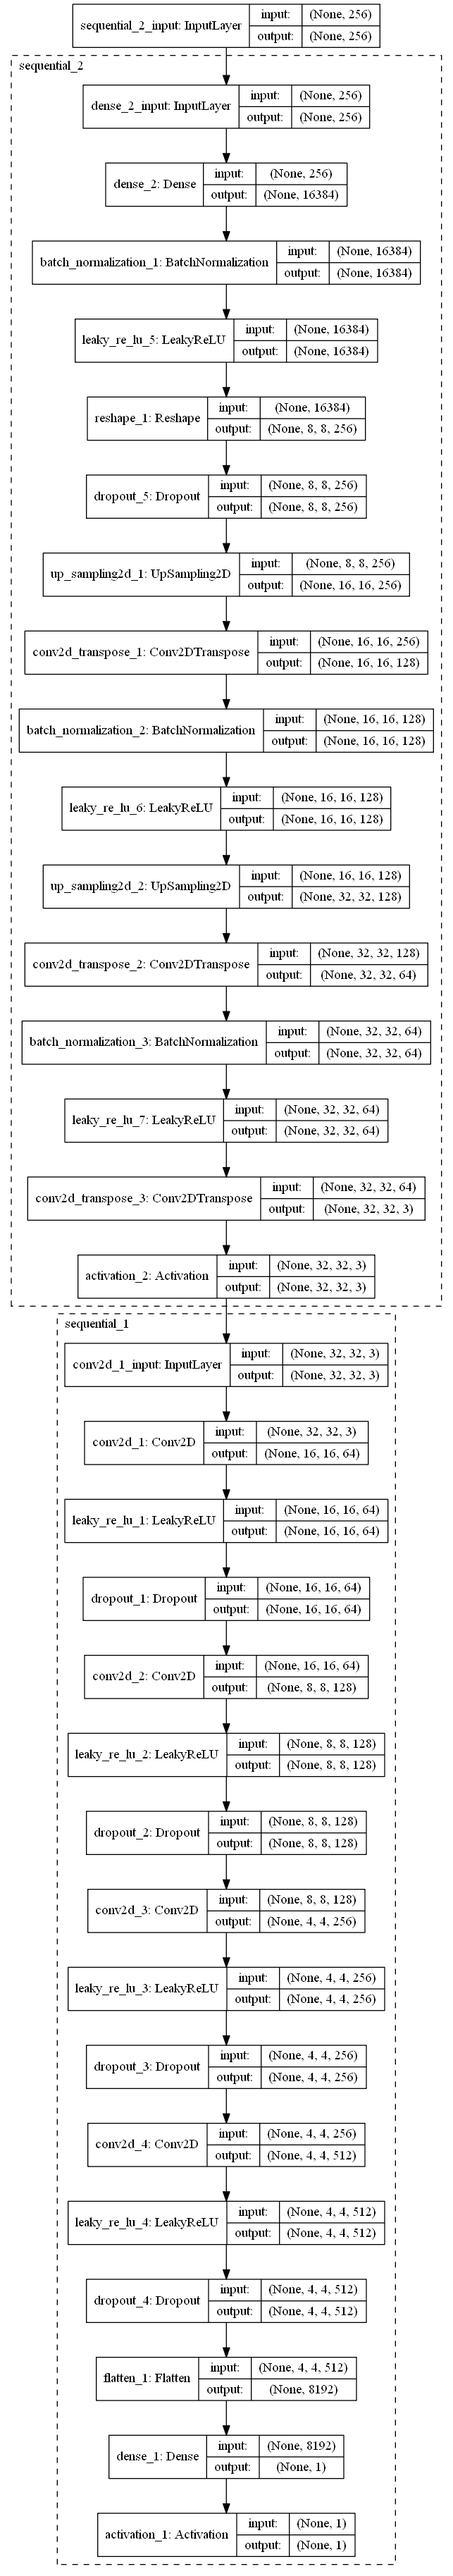
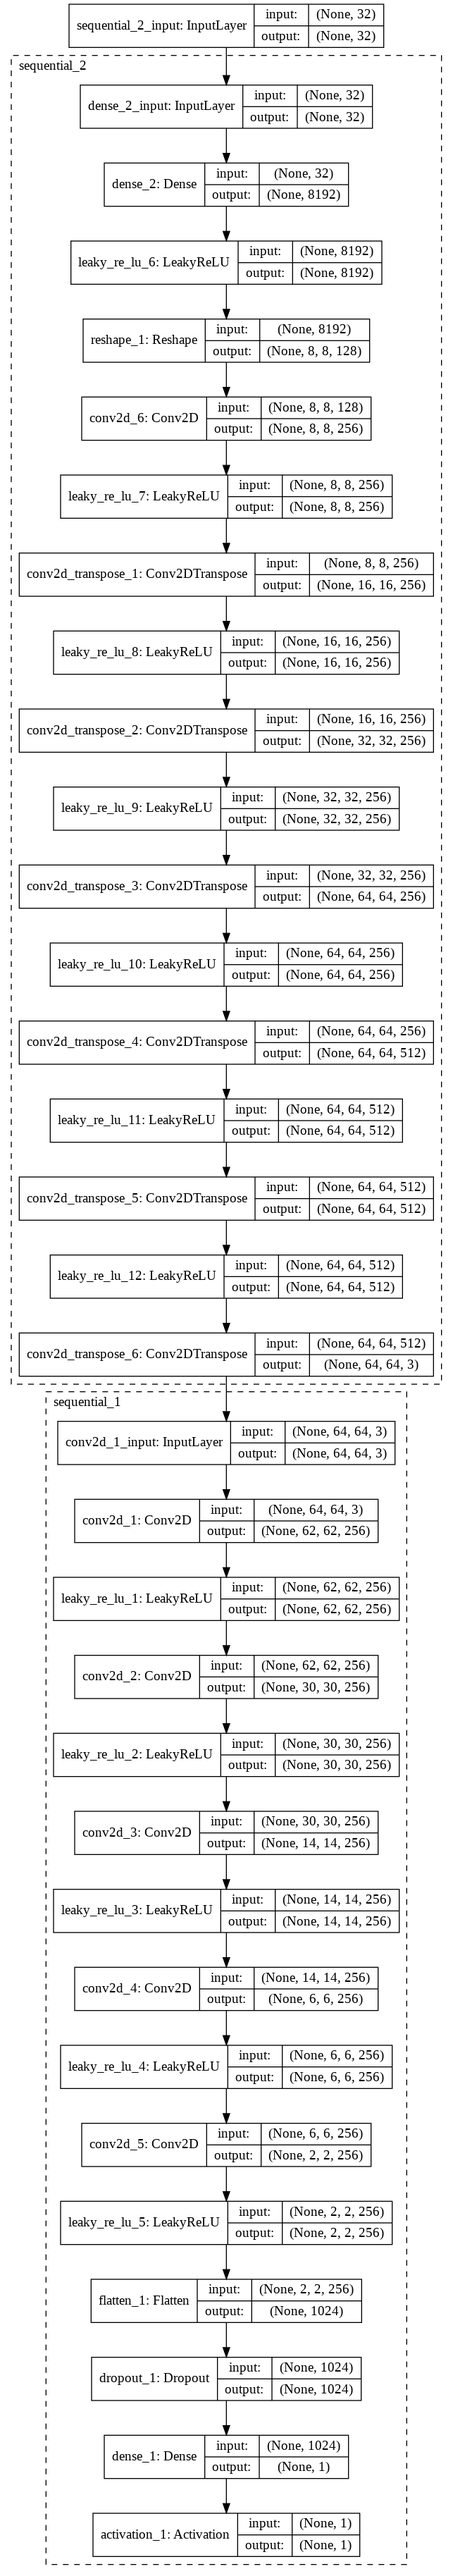
Re-run LSGAN with new model

diff --git a/LSGAN/main_100kCeleb.py b/LSGAN/main_100kCeleb.py
@@ -26,77 +26,90 @@ Redistribution and use in source and binary forms, with or without
 
 import os
 import numpy as np
+import pandas as pd
 import random
 import matplotlib.pyplot as plt
 from tqdm import tqdm
-from keras.layers import Dense, Activation, Dropout, Flatten, Reshape, LeakyReLU, ReLU
-from keras.layers import Conv2D, Conv2DTranspose, UpSampling2D, BatchNormalization, ZeroPadding2D
-from keras.models import Sequential, load_model
+from keras.layers import Dense, Activation, Dropout, Flatten, Reshape, LeakyReLU, AveragePooling2D, Embedding
+from keras.layers import Conv2D, Conv2DTranspose, UpSampling2D, BatchNormalization, ZeroPadding2D, Concatenate
+from keras.models import Sequential, load_model, Model
 from keras.optimizers import RMSprop, Adam
 from keras.callbacks import TensorBoard
 from keras.preprocessing.image import ImageDataGenerator, array_to_img, img_to_array, load_img
 from keras.utils.vis_utils import plot_model
-from keras import backend
+from keras import backend, Input
 from skimage.color import rgb2lab, lab2rgb, rgb2gray
 from skimage.io import imsave
-from skimage.transform import resize
+from sklearn.utils import shuffle
 from sklearn.utils import shuffle
 from PIL import Image, ImageOps
 import tensorflow as tf
-from imageio import imread
 
-#===========================Load and resize image==============================
-filepath = '../DCGAN/Image/Train/Resized'
+#===========================Resize images======================================
+img_path = "../Image/Train/tenk_celebs/100k"
+out_path = "../Image/Resized2"
+for filename in tqdm(sorted(os.listdir(img_path))):
+    temp = Image.open(img_path + '/' + filename)
+    size = 64, 64
+    temp.thumbnail(size, Image.ANTIALIAS)
+    temp.save(out_path + '/' + filename, "JPEG")
+
+#============================Get images========================================
+out_path = "/content/Resized"
 images = []
 # Grab images from folder
-for filename in tqdm(os.listdir(filepath)):
-    temp = np.array(img_to_array(load_img(filepath+'/'+filename)), dtype=float)
-    hor = 32 - temp.shape[0]
-    ver = 32 - temp.shape[1]
-    if hor%2 != 0:
-        temp = np.pad(temp, ((hor//2 + 1, hor//2), (ver//2, ver//2), (0, 0)),
-              mode='constant', constant_values=0)
-    elif ver%2 != 0:
-        temp = np.pad(temp, ((hor//2, hor//2), (ver//2 + 1, ver//2), (0, 0)),
-              mode='constant', constant_values=0)
-    else:
-    # Pad resized images with zeros such that they are all 32x32x3
-        temp = np.pad(temp, ((hor//2, hor//2), (ver//2, ver//2), (0, 0)),
-              mode='constant', constant_values=0)
-    # Store images into a list
-    images.append(np.array(temp, dtype=float))
+for filename in tqdm(sorted(os.listdir(out_path))):
+    if np.random.normal(0, 1, 1) > 0.89:
+        temp = np.array(img_to_array(load_img(out_path + '/' + filename)), dtype=float)
+        hor = 64 - temp.shape[0]
+        ver = 64 - temp.shape[1]
+        if hor%2 != 0:
+            temp = np.pad(temp, ((hor//2 + 1, hor//2), (ver//2, ver//2), (0, 0)),
+                  mode='constant', constant_values=0)
+        elif ver%2 != 0:
+            temp = np.pad(temp, ((hor//2, hor//2), (ver//2 + 1, ver//2), (0, 0)),
+                  mode='constant', constant_values=0)
+        else:
+        # Pad resized images with zeros such that they are all 64x64x3
+            temp = np.pad(temp, ((hor//2, hor//2), (ver//2, ver//2), (0, 0)),
+                  mode='constant', constant_values=0)
+        # Store images into a list
+        images.append(np.array(temp, dtype=float))
 
 # Normalise RGB intensities, reshape and forced into array
-X = [(x-127.5)/127.5 for x in images]
-X = [x.reshape(32, 32, 3) for x in X]
+X = [1.0/255*x for x in images]
+X = [x.reshape(64, 64, 3) for x in X]
 X = np.array(X)
 
+# We need only 10k images to train
 del(images)
+X = X[:10000]
 
 #=========================Discriminator model==================================
 # Define architecture of the discriminator (police AI)
-depth = 64
-dropout = 0.5
+noise = 32
+depth = 256
+
 D = Sequential()
-# Input layer
-D.add(Conv2D(depth*1, 5, strides=2, input_shape=X.shape[1:],padding='same', kernel_initializer='glorot_normal'))
-D.add(LeakyReLU(alpha=0.2))
-D.add(Dropout(dropout))
+# Input + First layer
+D.add(Conv2D(depth, 3, strides=1, input_shape=X.shape[1:]))
+D.add(LeakyReLU())
 # Second layer
-D.add(Conv2D(depth*2, 5, strides=2, padding='same', kernel_initializer='glorot_normal'))
-D.add(LeakyReLU(alpha=0.2))
-D.add(Dropout(dropout))
+D.add(Conv2D(depth, 4, strides=2))
+D.add(LeakyReLU())
 # Third layer
-D.add(Conv2D(depth*4, 5, strides=2, padding='same', kernel_initializer='glorot_normal'))
-D.add(LeakyReLU(alpha=0.2))
-D.add(Dropout(dropout))
+D.add(Conv2D(depth, 4, strides=2))
+D.add(LeakyReLU())
 # Forth layer
-D.add(Conv2D(depth*8, 5, strides=1, padding='same', kernel_initializer='glorot_normal'))
-D.add(LeakyReLU(alpha=0.2))
-D.add(Dropout(dropout))
+D.add(Conv2D(depth, 4, strides=2))
+D.add(LeakyReLU())
+# Fifth layer
+D.add(Conv2D(depth, 4, strides=2))
+D.add(LeakyReLU())
+# Output
 D.add(Flatten())
-# Output layer
-D.add(Dense(1, kernel_initializer='glorot_normal'))
+D.add(Dropout(0.4))
+D.add(Dense(1))
 D.add(Activation('linear'))
 
 # Print out architecture of the discriminator
@@ -106,39 +119,35 @@ plot_model(D, to_file='discriminator.png', show_shapes=True, show_layer_names=Tr
 
 #==========================Generator model=====================================
 # Define architecture of the generator (fraudster AI)
-# Note: with each layer, the image gets larger but with reduced depth
-dropout = 0.5
-depth = 64*4
+depth = 128
 dim = 8
-noise_vec = 256
+noise_vec = 32
+
 G = Sequential()
-# Input layer
-# In: 100
-# Out: dim x dim x depth
-G.add(Dense(dim*dim*depth, input_dim=noise_vec, kernel_initializer='glorot_normal'))
-G.add(BatchNormalization(momentum=0.9))
-G.add(LeakyReLU(alpha=0.3))
+# Input + First layer
+G.add(Dense(dim*dim*depth, input_dim=noise_vec))
+G.add(LeakyReLU())
 G.add(Reshape((dim, dim, depth)))
-G.add(Dropout(dropout))
 # Second layer
-# In: dim x dim x depth
-# Out: 2*dim x 2*dim x depth/2
-G.add(UpSampling2D())
-G.add(Conv2DTranspose(int(depth/2), 5, padding='same', kernel_initializer='glorot_normal'))
-G.add(BatchNormalization(momentum=0.8))
-G.add(LeakyReLU(alpha=0.3))
+G.add(Conv2D(depth*2, 5, padding = 'same'))
+G.add(LeakyReLU())
 # Third layer
-# In: 2*dim x 2*dim x depth/2
-# Out: 4*dim x 4*dim x depth/4
-G.add(UpSampling2D())
-G.add(Conv2DTranspose(int(depth/4), 5, padding='same', kernel_initializer='glorot_normal'))
-G.add(BatchNormalization(momentum=0.8))
-G.add(LeakyReLU(alpha=0.3))
-# Output layer
-# In: 8*dim x 8*dim x depth/8
-# Out: 32 x 32 x 3 RGB scale image [0.0,1.0] per pixel
-G.add(Conv2DTranspose(3, 5, padding='same', kernel_initializer='glorot_normal'))
-G.add(Activation('tanh'))
+G.add(Conv2DTranspose(depth*2, 4, strides=2, padding = 'same'))
+G.add(LeakyReLU())
+# Forth layer
+G.add(Conv2DTranspose(depth*2, 4, strides=2, padding = 'same'))
+G.add(LeakyReLU())
+# Fifth layer
+G.add(Conv2DTranspose(depth*2, 4, strides=2, padding = 'same'))
+G.add(LeakyReLU())
+# Sixth layer
+G.add(Conv2DTranspose(depth*4, 5, strides=1, padding = 'same'))
+G.add(LeakyReLU())
+# Seventh layer
+G.add(Conv2DTranspose(depth*4, 5, strides=1, padding = 'same'))
+G.add(LeakyReLU())
+# Output
+G.add(Conv2DTranspose(3, 7, strides=1, activation = 'tanh', padding = 'same'))
 
 # Print out architecture of the generator
 G.summary()
@@ -162,19 +171,19 @@ GAN.compile(loss='mse', optimizer=optimizer2, metrics=['accuracy'])
 GAN.summary()
 # Save model architecture as .PNG
 plot_model(GAN, to_file='LSGAN.png', show_shapes=True, show_layer_names=True)
+plot_model(GAN, to_file='LSGAN_expand.png', expand_nested=True, show_shapes=True, show_layer_names=True)
 
 #==========================Plot image function=================================
 def plot_output(noise, step):
     filename = "GANmodel_%d.png" % step
     
     images = G.predict(noise)
-    images = np.array([(x+1)/2.0 for x in images])
 
     plt.figure(figsize=(10,10))
     for i in range(images.shape[0]):
         plt.subplot(4, 4, i+1)
         image = images[i, :, :, :]
-        image = image.reshape(X.shape[1], X.shape[2], X.shape[3])
+        image = image.reshape(images.shape[1], images.shape[2], images.shape[3])
         plt.imshow(image)
         plt.axis('off')
     plt.tight_layout()
@@ -186,127 +195,74 @@ def plot_loss(d_performance, gan_performance, jump=100):
     plt.figure(figsize=(10, 10))
     plt.plot(d_performance[0::jump], label='discriminator')
     plt.plot(gan_performance[0::jump], label='GAN')
-    plt.xlabel('epoch ({})'.format(jump))
+    plt.xlabel('iteration (Skipping every {}its)'.format(jump))
     plt.ylabel('loss')
     plt.legend()
     plt.savefig('loss_over_epoch.png')
     plt.close('all')
     
-#========================Plot accuracy function================================
-def plot_accuracy(d_performance, gan_performance, jump=100):
-    plt.figure(figsize=(10, 10))
-    plt.plot(d_performance[0::jump], label='discriminator')
-    plt.plot(gan_performance[0::jump], label='GAN')
-    plt.xlabel('epoch ({})'.format(jump))
-    plt.ylabel('accuracy')
-    plt.legend()
-    plt.savefig('accuracy_over_epoch.png')
-    plt.close('all')
-    
 #=========================Train GAN function===================================
-def train_gan(X, model, batch_size, epoch, save_interval, pretrain=False, pretrain_num=100, noise_len=100):
-    if pretrain == True:
-        if pretrain_num > X.shape[0]:
-            pretrain_num = X.shape[0]
-        else:
-            # Randomly select n (pretrain_num) number of images from X
-            images_real = X[np.random.randint(0,X.shape[0], size=pretrain_num), :, :, :]
-            # Generate n number of 100D noise vectors
-            noise = np.random.normal(0.0, 1.0, size=[pretrain_num, noise_len])
-            # Produce n number of fake images with generator
-            images_fake = G.predict(noise)
-            # Concat real and fake images
-            x = np.concatenate((images_real, images_fake))
-            # Create labels
-            y = np.ones([2*pretrain_num, 1])
-            y[pretrain_num:, :] = 0
-            # Shuffle the real and fake images
-            x,y = shuffle(x,y)
-            # Make discriminator trainable
-            D.trainable = True
-            # Train discriminator on the sampled data
-            D.fit(x, y, batch_size=batch_size, epochs=1, validation_split=0.15)
-    else:
-        None
-    
-    d_performance = []
-    gan_performance = []
-    d_accuracy = []
-    gan_accuracy = []
+def train_gan(X, model, batch_size, epoch, save_interval, noise_len=32):    
+    d_losses = []
+    gan_losses = []
     
     batch_per_epoch = int(round(X.shape[0]/batch_size))
     
     for i in range(epoch):
+        start = 0
         for j in tqdm(range(batch_per_epoch)):
             #=====================Train discriminator==========================
-            half_batch = int(batch_size/2)
-            # Randomly select n (batch_size) number of images from X
-            images_real = X[np.random.randint(0,X.shape[0], size=half_batch), :, :, :]
-            # Generate n number of 100D noise vectors
-            noise = np.random.normal(0.0, 1.0, size=[half_batch, noise_len])
-            # Produce n number of fake images with generator
-            images_fake = G.predict(noise)
-            # Concat real and fake images
-            x = np.concatenate((images_real, images_fake))
-            # Create labels
-            y = np.ones([batch_size, 1]) 
-            y[half_batch:, :] = 0
-            # Shuffle the real and fake images
-            x,y = shuffle(x,y)
-            # Make discriminator trainable
-            D.trainable = True
-            # Train discriminator on the sampled data
+            noise_vec = np.random.normal(size=(batch_size, noise))
+            images_fake = G.predict(noise_vec)
+
+            images_real = X[start:start + batch_size]
+            x = np.concatenate([images_fake, images_real])
+
+            y = np.concatenate([np.ones((batch_size, 1)), np.zeros((batch_size, 1))])
+            y += .05 * np.random.random(y.shape)
+
             d_loss = D.train_on_batch(x, y)
+            d_losses.append(d_loss[0])
             
             #=========================Train GAN================================
-            # Create labels
-            y = np.ones([batch_size, 1])
-            # Generate n number of 100D noise vectors
-            noise = np.random.normal(0.0, 1.0, size=[batch_size, noise_len])
-            # Freeze weights in discriminator
-            D.trainable = False
-            # Train GAN on the generated data
-            gan_loss = GAN.train_on_batch(noise, y)
-            
+            noise_vec = np.random.normal(size=(batch_size, noise))
+            y = np.zeros((batch_size, 1))
+
+            gan_loss = GAN.train_on_batch(noise_vec, y)
+            gan_losses.append(gan_loss)
+
+            start += batch_size
+            if start > X.shape[0] - batch_size:
+                start = 0
         # Print loss and accuracy values 
-        log_msg = "epoch %d: [D loss: %f, acc: %f]" % (i, d_loss[0], d_loss[1])
-        log_msg = "%s  [GAN loss: %f, acc: %f]" % (log_msg, gan_loss[0], gan_loss[1])
+        log_msg = "epoch %d: [D loss: %f]" % (i, d_loss[0])
+        log_msg = "%s  [GAN loss: %f]" % (log_msg, gan_loss)
         print(log_msg)
-            
-        d_performance.append(np.array(d_loss[0], dtype=float))
-        gan_performance.append(np.array(gan_loss[0], dtype=float))
-        
-        d_accuracy.append(np.array(d_loss[1], dtype=float))
-        gan_accuracy.append(np.array(gan_loss[1], dtype=float))
         
         # Save ouputs
         if save_interval>0 and (i+1)%save_interval==0:
             noise_input = np.random.normal(0.0, 1.0, size=[16, noise_len])
             plot_output(noise=noise_input, step=(i+1))
     
-    d_loss_ls = [float(x) for x in d_performance]
-    gan_loss_ls = [float(x) for x in gan_performance]
-    d_acc_ls = [float(x) for x in d_accuracy]
-    gan_acc_ls = [float(x) for x in gan_accuracy]
-    return(d_loss_ls, gan_loss_ls, d_acc_ls, gan_acc_ls)
+    d_losses = [float(x) for x in d_losses]
+    gan_losses = [float(x) for x in gan_losses]
+    return(d_losses, gan_losses)
     
-#=================================Train GAN====================================
-# Hints:
-# Input noise - longer noise vector produce better results (100, 128, 256)
-# --- to change noise_len, make sure to also change generator input size
-# Batch size - pick smaller batch size like 8, 16, 32, 64
-# Pre-training may hurt performance
-d_loss_ls, gan_loss_ls, d_acc_ls, gan_acc_ls = train_gan(X=X, model=GAN, batch_size=16, epoch=2000, 
-                                                         save_interval=100, pretrain=False, pretrain_num=20000,
-                                                         noise_len=256)
-plot_loss(d_loss_ls, gan_loss_ls)
-plot_accuracy(d_acc_ls, gan_acc_ls)
+#================================Train LSGAN===================================
+d_loss_ls, gan_loss_ls = train_gan(X=X, model=GAN, batch_size=16, epoch=30, 
+                                                         save_interval=1,
+                                                         noise_len=32)
+plot_loss(d_loss_ls, gan_loss_ls, 1)
 
 #================================Save model====================================
 model_json = GAN.to_json()
 with open("LSGAN_100kCelebs_model.json", "w") as json_file:
     json_file.write(model_json)
 GAN.save_weights("LSGAN_100kCelebs_model.h5")
+
+GAN.save('LSGAN_full_model.h5')
+D.save('LSGAN_discriminator.h5')
+G.save('LSGAN_generator.h5')
 
 #================================Result GIF====================================
 import imageio
